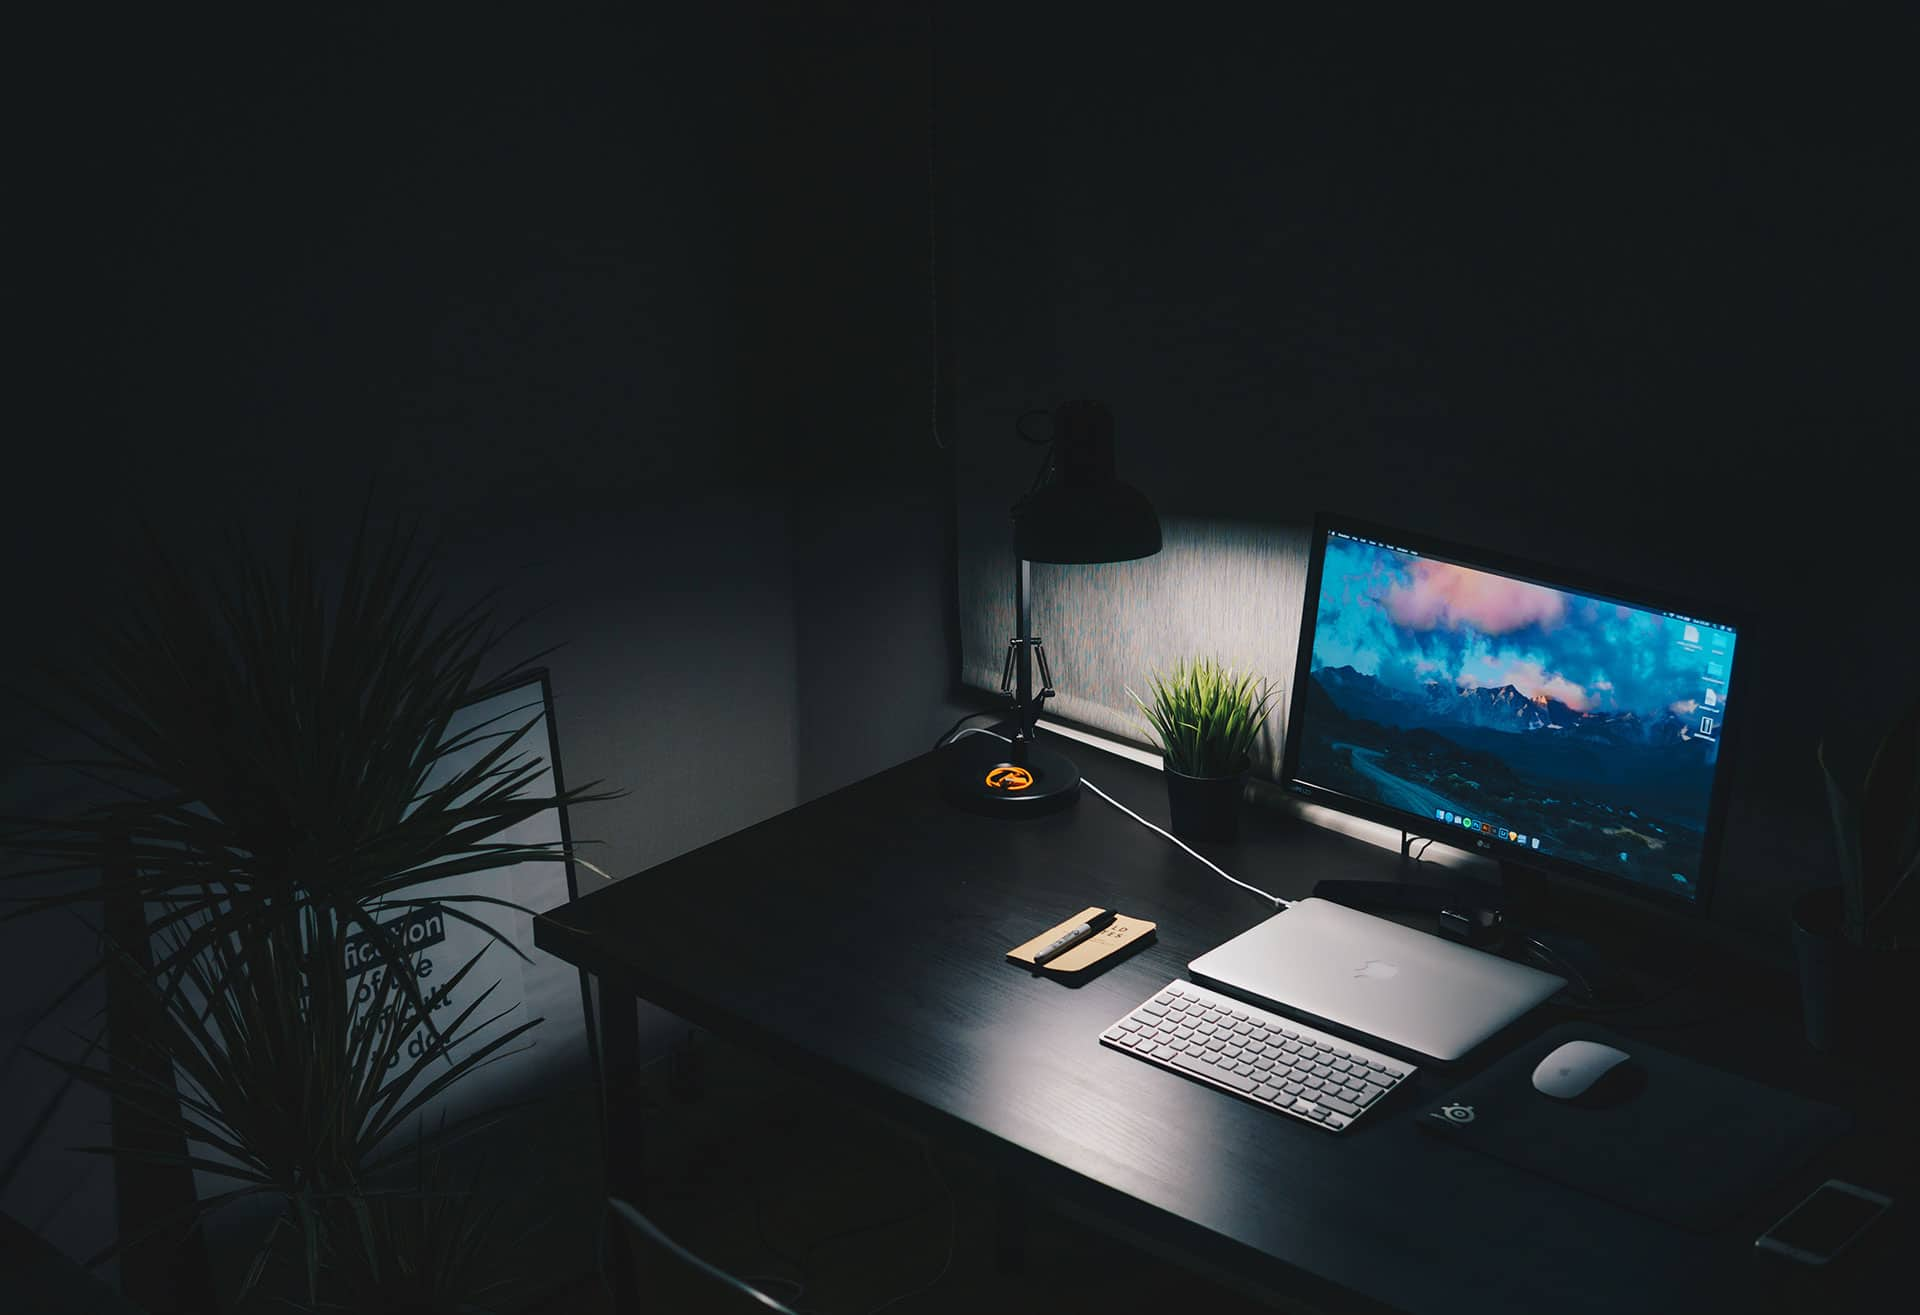
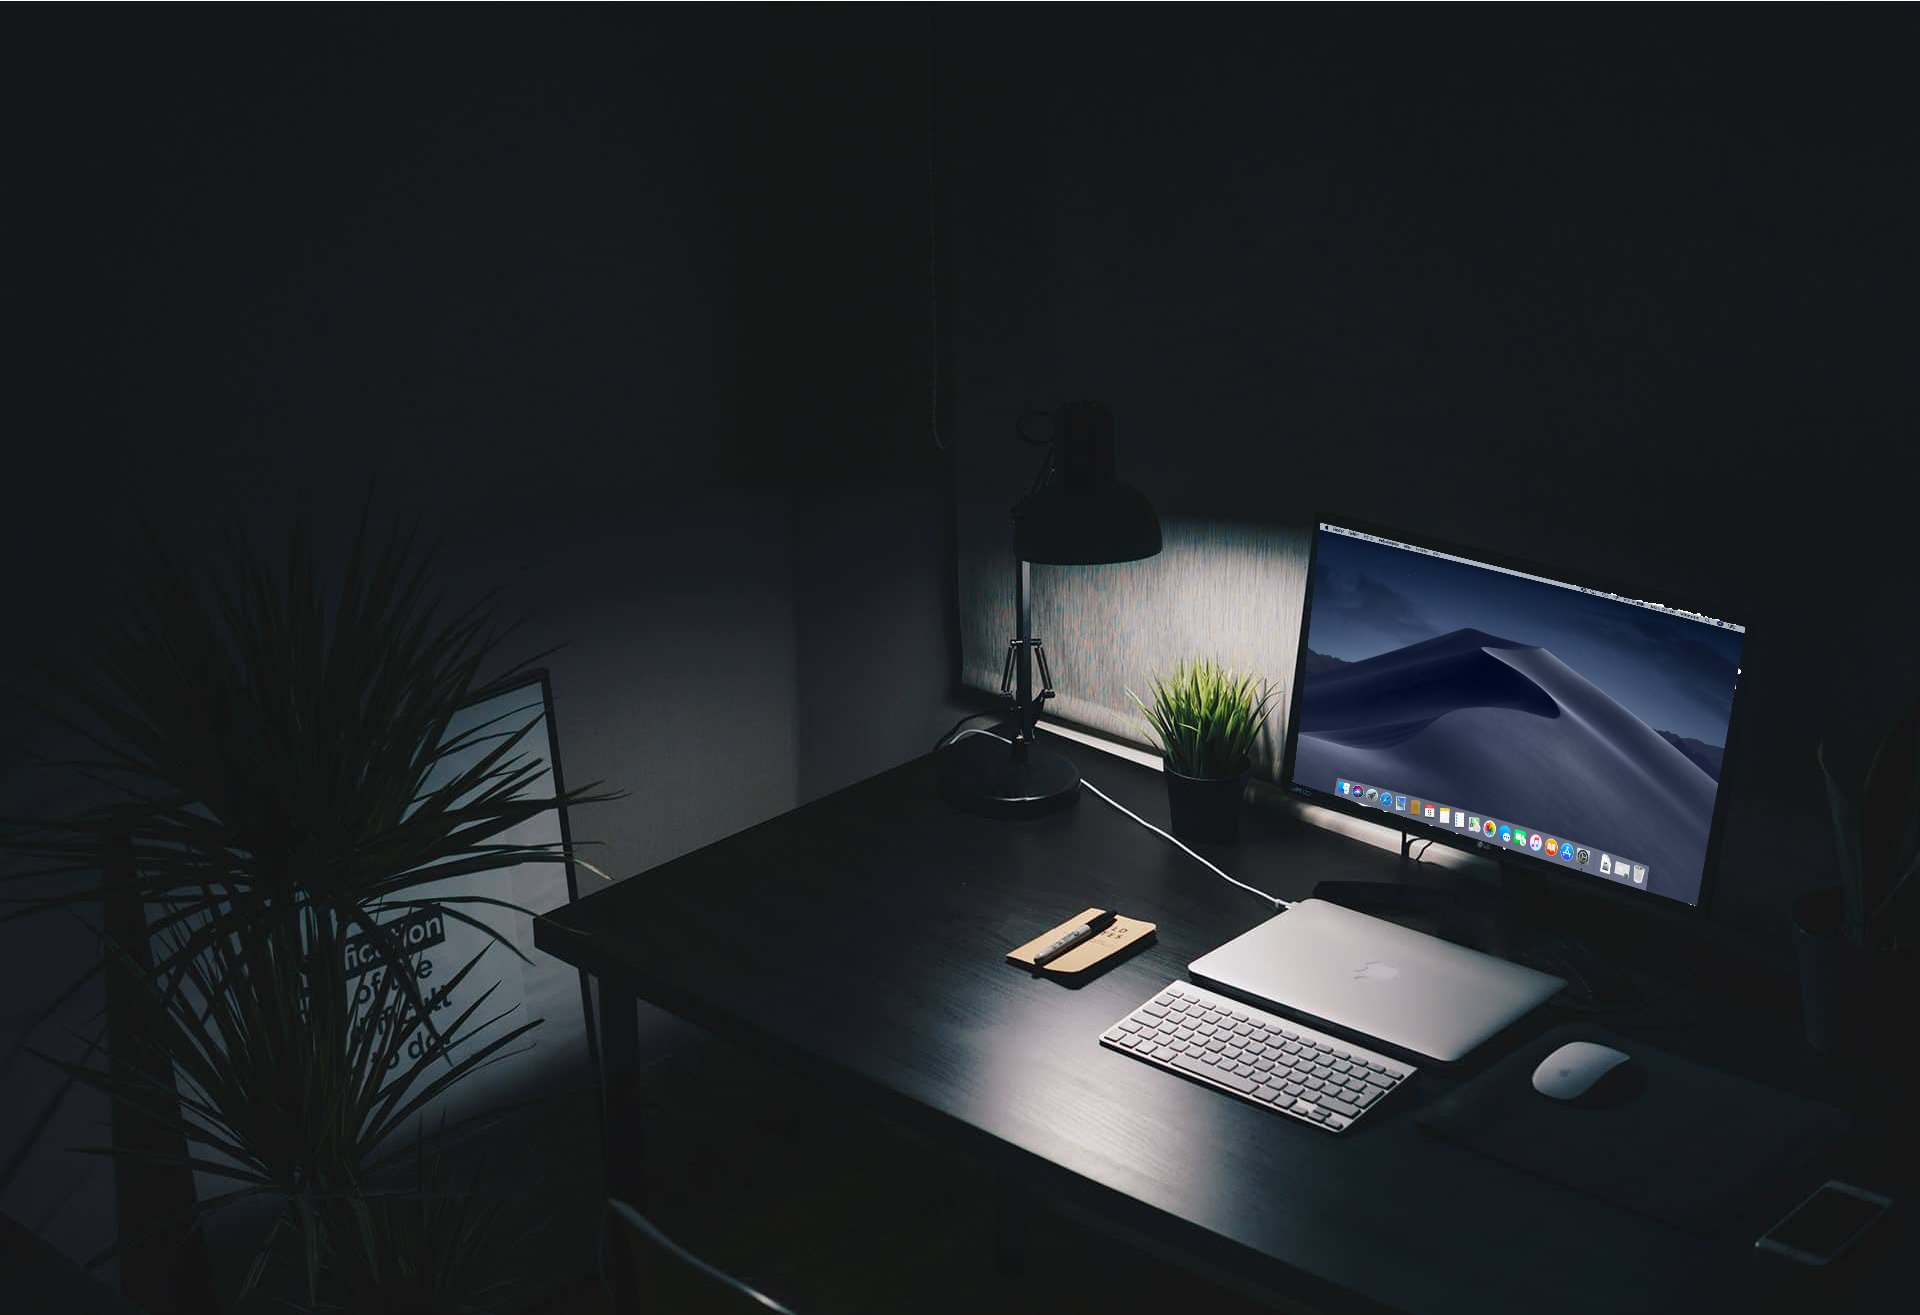
new port folio

diff --git a/index.html b/index.html
@@ -13,47 +13,42 @@
 </head>
 <body>
   <!-- navbar -->
-  <header>
-  <nav class="navbar bg-light navbar-expand-md">
-    <div class="container gap-3">
-      <a href="#" class="navbar-brand"><h1 class="text-dark fw-bold fs-3">Vincent BENOIT</h1></a>
-      <button class="navbar-toggler" type="button" data-bs-toggle="collapse"data-bs-target="#navbarSupportedContent" aria-controls="navbarSupportedContent" aria-expanded="true"aria-label="Toggle navigation">
-        <img src="../GlobalServer/img/iconNav1.svg" alt="Bouton menu burger">
-      </button>
-      <div class="collapse navbar-collapse order-md-1 justify-content-end" id="navbarSupportedContent">
-        <ul class="navbar-nav my-5 my-md-0">
-          <li class="nav-item text-md-star text-center">
-            <a class="nav-link active fs-5 text-secondary" aria-current="page" href="#">Accueil</a>
-          </li>
-          <li class="nav-item text-md-star text-center">
-            <a class="nav-link fs-5 text-secondary" href="#">A Propos</a>
-          </li>
-          <li class="nav-item text-md-star text-center">
-            <a class="nav-link fs-5 text-secondary" href="#">Compétence</a>
-          </li>
-          <li class="nav-item text-md-star text-center">
-            <a class="nav-link fs-5 text-secondary" href="#">ProrFolio</a>
-          </li>
-          <li class="nav-item text-md-star text-center">
-            <a class="nav-link fs-5 text-secondary" href="#">Contact</a>
-          </li>
-        </ul>
-      </div>
-    </div>
-  </nav>
-   <section class="my-5 vh-100 "> <!--Alexis Denorme -->
-    <div class="container justify-content-space-around">
-      <div class="row gy-4 align-items-center">
-        <div class="col-12 col-md-6">
-          <h1 class="fw-bold mb-5">Vincent BENOIT</h1>
-          <h2>Développeur Web</h2>
-        </div>
-        <div class="col-12 col-md-6">
-          <img src="./GlobalServer/img/header.png" alt="Vincent benoit" width="90%">
+  <header class="vw-100 vh-100">
+    <nav class="navbar navbar-expand-md fixed-top">
+      <div class="container gap-3">
+        <a href="#" class="navbar-brand"><h1 class="text-white fw-bold fs-3">Vincent BENOIT</h1></a>
+        <button class="navbar-toggler" type="button" data-bs-toggle="collapse"data-bs-target="#navbarSupportedContent" aria-controls="navbarSupportedContent" aria-expanded="true"aria-label="Toggle navigation">
+          <img src="../GlobalServer/img/iconNav1.svg" alt="Bouton menu burger">
+        </button>
+        <div class="collapse navbar-collapse order-md-1 justify-content-end" id="navbarSupportedContent">
+          <ul class="navbar-nav my-5 my-md-0">
+            <li class="nav-item text-md-star text-center">
+              <a class="nav-link active fs-5 text-white" aria-current="page" href="#">Accueil</a>
+            </li>
+            <li class="nav-item text-md-star text-center">
+              <a class="nav-link fs-5 text-white" href="#">A Propos</a>
+            </li>
+            <li class="nav-item text-md-star text-center">
+              <a class="nav-link fs-5 text-white" href="#">Compétence</a>
+            </li>
+            <li class="nav-item text-md-star text-center">
+              <a class="nav-link fs-5 text-white" href="#">ProrFolio</a>
+            </li>
+            <li class="nav-item text-md-star text-center">
+              <a class="nav-link fs-5 text-white" href="#">Contact</a>
+            </li>
+          </ul>
         </div>
       </div>
-    </div>
-</section>
+    </nav>
+    <section class="pad container vh-100">
+      <div class="align-items-center">
+        <h1 class="fw-bold">Vincent BENOIT</h1>
+        <h2>Développeur Web</h2>
+        <h3 class="color">Passionné</h3>
+      </div>
+    </section>
+  </header>
   <script src="https://cdn.jsdelivr.net/npm/bootstrap@5.0.2/dist/js/bootstrap.bundle.min.js" integrity="sha384-MrcW6ZMFYlzcLA8Nl+NtUVF0sA7MsXsP1UyJoMp4YLEuNSfAP+JcXn/tWtIaxVXM" crossorigin="anonymous"></script>
 </body>
 </html>

diff --git a/assets/css/style.css b/assets/css/style.css
@@ -3,10 +3,12 @@
 *{
   margin: 0;
   padding: 0;
+}
+body{
+  font-family: 'Martel Sans', sans-serif;
   box-sizing: border-box;
   scroll-behavior: smooth;
-  font-family: 'Martel Sans', sans-serif;}
-  /* #37517e  (bleuclaire)#47b2e4 white */
+}
 li{
     list-style-type: none;
   }
@@ -14,14 +16,30 @@ a{
     text-decoration: none;
   }
 /*============================== Title ==============================*/
-
+header{
+  background: url(../img/bureau.png)  no-repeat bottom center #000;
+  width: 100%;
+  height: 100vh;
+  color: white;
+}
+.pad{
+  padding-top: 250px;
+}
+.navbar{
+  background-color: rgba(0, 0, 0, 0.66);
+}
+.color{color: #85357e ;}
+.colorbis{color: #210f43;}
 h1{
+  font-size: 8rem !important;
   font-family: 'Molengo', sans-serif;
 }
 h2{
+  font-size: 5rem !important;
   font-family: 'Montserrat Alternates', sans-serif;
 }
 h3{
+  font-size: 3rem !important;
   font-family: 'Montserrat Alternates', sans-serif;
 }
 /*============================== Img ==============================*/
